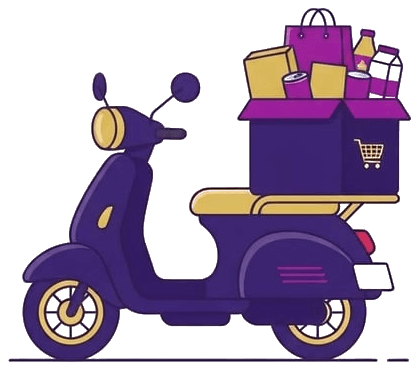
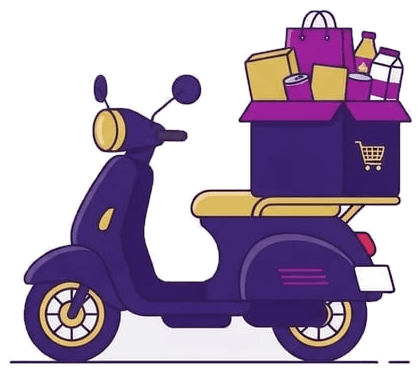
Fix onboarding background removal punching holes in the illustrations
The previous pass keyed background out by a fixed color-distance threshold
per pixel, with no notion of connectivity - any pixel whose color happened
to be close to the sampled background tone got erased even when it was
fully enclosed inside the artwork (the roof's highlight gradient, the
phone's screen fill), leaving visible holes/speckle in the middle of the
illustrations instead of a clean cutout.

Replaced it with a flood fill seeded from the image border (a magic-wand
style walk that only advances into a neighbor if its color is close to the
current pixel, not a fixed reference) - it naturally follows the flat
background through the storefront's gradual floor-plane gradient and the
faint glow ring, but can't leak into enclosed shapes bounded by real
outline strokes, so real content never gets erased anymore. Re-derived
from the original opaque JPEGs (recovered from git history) rather than
reprocessing the previous, already-damaged PNGs.

Also fixes a real bug this surfaced: sharp's .blur() silently upcasts a
single-channel raw buffer to 3 channels, which was scrambling a naive
per-pixel alpha read into stripes - replaced with a small manual box blur
on the mask instead.

diff --git a/src/screens/OnboardingScreen.tsx b/src/screens/OnboardingScreen.tsx
@@ -23,19 +23,19 @@ const SLIDES: Slide[] = [
   {
     key: "nearest-store",
     image: require("../../assets/onboarding/nearest-store.png"),
-    aspectRatio: 441 / 385,
+    aspectRatio: 446 / 473,
     title: "Temukan Toko X-SHA Terdekat",
   },
   {
     key: "shop-needs",
     image: require("../../assets/onboarding/shop-needs.png"),
-    aspectRatio: 467 / 435,
+    aspectRatio: 469 / 440,
     title: "Pilih Kebutuhan Harianmu",
   },
   {
     key: "fast-delivery",
     image: require("../../assets/onboarding/fast-delivery.png"),
-    aspectRatio: 418 / 369,
+    aspectRatio: 420 / 373,
     title: "Pengantaran Cepat ke Rumah",
   },
 ];
